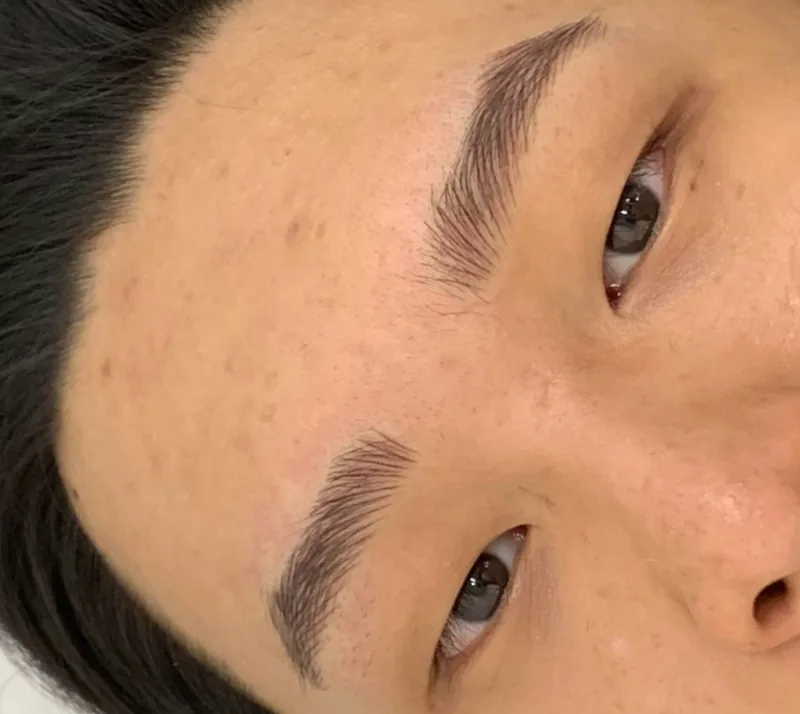
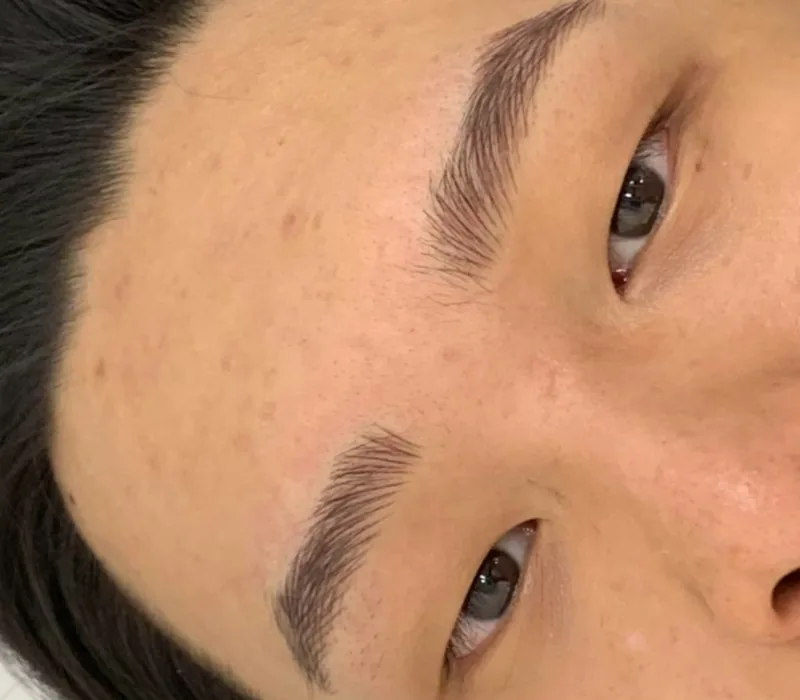
Bring back the before/after drag slider with real photos
Align each after photo to its before shot (rotation, scale and offset
only) so the two overlap in the slider, and let the bar follow the
mouse on hover-capable devices.

Claude-Session: https://claude.ai/code/session_01XwhqTagDmTHUZGgCHpsxaP

diff --git a/index.html b/index.html
@@ -208,27 +208,33 @@
         <div class="section-head">
           <p class="eyebrow reveal">BEFORE &amp; AFTER</p>
           <h2 class="section-title reveal">시술 전후 비교</h2>
-          <p class="section-sub reveal">e.je PMU에서 시술한 실제 고객의 시술 전후 모습입니다.</p>
+          <p class="section-sub reveal">가운데 바를 좌우로 움직여 변화를 확인해 보세요.</p>
         </div>
         <div class="ba-grid">
           <figure class="ba reveal">
-            <div class="ba__pair">
-              <div class="ba__img"><img src="assets/img/ba-1-before.webp" alt="눈썹 시술 전" width="800" height="714" loading="lazy"><span>BEFORE</span></div>
-              <div class="ba__img"><img src="assets/img/ba-1-after.webp" alt="눈썹 시술 후" width="800" height="714" loading="lazy"><span>AFTER</span></div>
+            <div class="ba__wrap" data-ba>
+              <div class="ba__after"><img src="assets/img/ba-1-after.webp" alt="눈썹 시술 후" width="800" height="700" loading="lazy" draggable="false"><span>AFTER</span></div>
+              <div class="ba__before"><img src="assets/img/ba-1-before.webp" alt="눈썹 시술 전" width="800" height="700" loading="lazy" draggable="false"><span>BEFORE</span></div>
+              <input type="range" min="0" max="100" value="50" aria-label="전후 비교 슬라이더">
+              <div class="ba__handle"></div>
             </div>
             <figcaption>BROWS · 눈썹</figcaption>
           </figure>
           <figure class="ba reveal">
-            <div class="ba__pair">
-              <div class="ba__img"><img src="assets/img/ba-2-before.webp" alt="눈썹 시술 전" width="800" height="714" loading="lazy"><span>BEFORE</span></div>
-              <div class="ba__img"><img src="assets/img/ba-2-after.webp" alt="눈썹 시술 후" width="800" height="714" loading="lazy"><span>AFTER</span></div>
+            <div class="ba__wrap" data-ba>
+              <div class="ba__after"><img src="assets/img/ba-2-after.webp" alt="눈썹 시술 후" width="800" height="700" loading="lazy" draggable="false"><span>AFTER</span></div>
+              <div class="ba__before"><img src="assets/img/ba-2-before.webp" alt="눈썹 시술 전" width="800" height="700" loading="lazy" draggable="false"><span>BEFORE</span></div>
+              <input type="range" min="0" max="100" value="50" aria-label="전후 비교 슬라이더">
+              <div class="ba__handle"></div>
             </div>
             <figcaption>BROWS · 눈썹</figcaption>
           </figure>
           <figure class="ba reveal">
-            <div class="ba__pair">
-              <div class="ba__img"><img src="assets/img/ba-3-before.webp" alt="눈썹 시술 전" width="800" height="714" loading="lazy"><span>BEFORE</span></div>
-              <div class="ba__img"><img src="assets/img/ba-3-after.webp" alt="눈썹 시술 후" width="800" height="714" loading="lazy"><span>AFTER</span></div>
+            <div class="ba__wrap" data-ba>
+              <div class="ba__after"><img src="assets/img/ba-3-after.webp" alt="눈썹 시술 후" width="800" height="700" loading="lazy" draggable="false"><span>AFTER</span></div>
+              <div class="ba__before"><img src="assets/img/ba-3-before.webp" alt="눈썹 시술 전" width="800" height="700" loading="lazy" draggable="false"><span>BEFORE</span></div>
+              <input type="range" min="0" max="100" value="50" aria-label="전후 비교 슬라이더">
+              <div class="ba__handle"></div>
             </div>
             <figcaption>BROWS · 눈썹</figcaption>
           </figure>

diff --git a/assets/css/style.css b/assets/css/style.css
@@ -266,14 +266,30 @@ i { font-style: normal; }
 /* ---------- Before / After ---------- */
 .ba-grid { display: grid; grid-template-columns: repeat(3, 1fr); gap: 24px; }
 .ba { margin: 0; }
-.ba__pair { display: grid; gap: 4px; }
-.ba__img { position: relative; }
-.ba__img img { display: block; width: 100%; height: auto; aspect-ratio: 800 / 714; object-fit: cover; }
-.ba__img span {
-  position: absolute; top: 12px; left: 12px; padding: 4px 10px;
-  background: rgba(34,29,26,.72); color: var(--white); font-size: .72rem; letter-spacing: .16em;
+.ba__wrap { position: relative; aspect-ratio: 8 / 7; max-width: 100%; overflow: hidden; --pos: 50%; user-select: none; }
+.ba__after, .ba__before { position: absolute; inset: 0; }
+.ba__before { clip-path: inset(0 calc(100% - var(--pos)) 0 0); }
+.ba__after img, .ba__before img { display: block; width: 100%; height: 100%; object-fit: cover; pointer-events: none; }
+.ba__before span, .ba__after span {
+  position: absolute; top: 12px; padding: 4px 10px; font-size: .72rem; letter-spacing: .16em;
+  background: rgba(34,29,26,.72); color: var(--white);
 }
-.ba__img + .ba__img span { background: var(--sand); color: var(--espresso); }
+.ba__after span { background: var(--sand); color: var(--espresso); }
+.ba__before span { left: 16px; }
+.ba__after span { right: 16px; }
+.ba__handle {
+  position: absolute; top: 0; bottom: 0; left: var(--pos);
+  width: 2px; background: var(--white); transform: translateX(-50%); pointer-events: none;
+}
+.ba__handle::after {
+  content: "‹ ›"; position: absolute; top: 50%; left: 50%; transform: translate(-50%, -50%);
+  width: 44px; height: 44px; border-radius: 50%; background: var(--sand); color: var(--espresso);
+  display: grid; place-items: center; font-size: 1rem; letter-spacing: .1em;
+}
+.ba__wrap input {
+  position: absolute; inset: 0; width: 100%; height: 100%; margin: 0;
+  opacity: 0; cursor: ew-resize; z-index: 2;
+}
 .ba figcaption { margin-top: 14px; text-align: center; font-size: .9rem; color: rgba(255,255,255,.75); }
 .gallery .notice { text-align: center; }
 

diff --git a/assets/js/main.js b/assets/js/main.js
@@ -71,6 +71,22 @@
     });
   });
 
+  // Before / After sliders
+  document.querySelectorAll("[data-ba]").forEach(function (wrap) {
+    var range = wrap.querySelector("input");
+    function update() { wrap.style.setProperty("--pos", range.value + "%"); }
+    range.addEventListener("input", update);
+    // 마우스가 있는 기기: 클릭 없이 마우스를 좌우로 움직이기만 해도 따라감
+    if (window.matchMedia("(hover: hover)").matches) {
+      wrap.addEventListener("mousemove", function (e) {
+        var r = wrap.getBoundingClientRect();
+        range.value = Math.max(0, Math.min(100, ((e.clientX - r.left) / r.width) * 100));
+        update();
+      });
+    }
+    update();
+  });
+
   // Count-up numbers
   function countUp(el) {
     var target = parseInt(el.dataset.count, 10);

diff --git a/CLAUDE.md b/CLAUDE.md
@@ -16,7 +16,7 @@
 ```
 index.html              페이지 전체 마크업 (섹션 순서는 아래 참고)
 assets/css/style.css    스타일. 맨 위 :root 토큰 + 섹션별 블록 + 반응형(1520/1180/960/600px)
-assets/js/main.js       헤더 스크롤, 모바일 메뉴, 시술 탭, 카운트업, 스크롤 등장, 예약 폼 검증
+assets/js/main.js       헤더 스크롤, 모바일 메뉴, 시술 탭, 전후 비교 슬라이더(PC는 마우스 따라 움직임), 카운트업, 스크롤 등장, 예약 폼 검증
 assets/img/*.webp       모든 이미지 (사용자가 보내준 원본을 잘라/압축해 webp로 저장)
 tools/build-preview.py  Artifact 미리보기용 단일 HTML 생성 스크립트
 ```
@@ -29,7 +29,7 @@ tools/build-preview.py  Artifact 미리보기용 단일 HTML 생성 스크립트
 4. 원장 소개 `#director`: `director.webp`(밝은 크림 배경, 그림자). 경력은 빼기로 함, 자격 1줄만 **빈칸**
 5. 시술 안내 `#services`: 탭 3개 BROWS 눈썹 / LIP BLUSH 입술 / EYE LASH 속눈썹. 이미지 3:4 고정
 6. 시술 과정(4단계)
-7. 전후 비교 `#gallery`: 실제 눈썹 시술 사진 3쌍(`ba-1~3-before/after.webp`), 위 BEFORE / 아래 AFTER로 나란히 표시. 사용자가 보낸 5장 중 위·아래 구성인 3장을 골라 테두리만 잘라냄. 전후 사진 구도가 달라 드래그 슬라이더는 없앰. 캡션은 'BROWS · 눈썹'(세부 시술명은 사용자 확인 필요)
+7. 전후 비교 `#gallery`: 실제 눈썹 시술 사진 3쌍(`ba-1~3-before/after.webp`, 8:7) 드래그 슬라이더. PC에서는 클릭 없이 마우스를 좌우로 움직이면 따라감. 사용자가 보낸 5장 중 위·아래 구성 3장을 골라 테두리를 잘라내고, 슬라이더에서 겹쳐 보이도록 AFTER 사진을 BEFORE에 맞춰 회전·크기·위치만 정렬(OpenCV SIFT)함. 캡션은 'BROWS · 눈썹'(세부 시술명은 사용자 확인 필요)
 8. 후기 `#reviews` (**예시 문구**)
 9. 가격 `#price`: 메뉴판 형식 (아래 가격 참고)
 10. FAQ `#faq`
